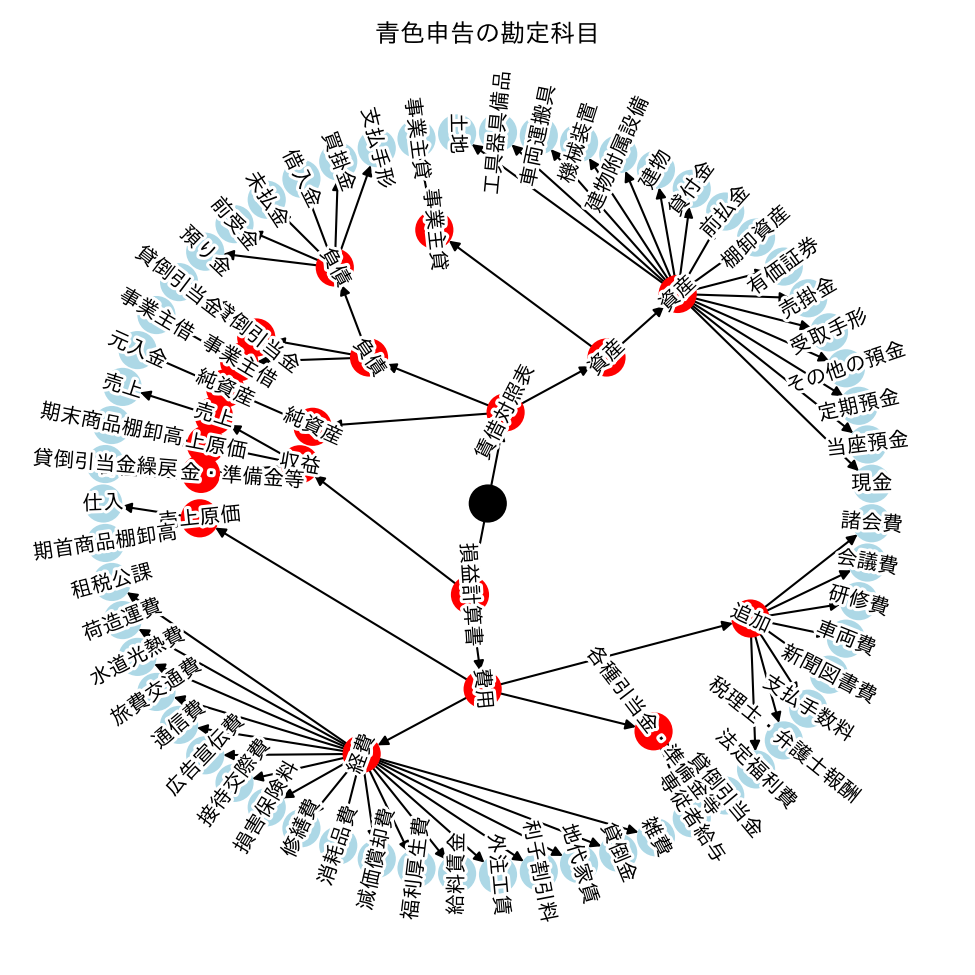
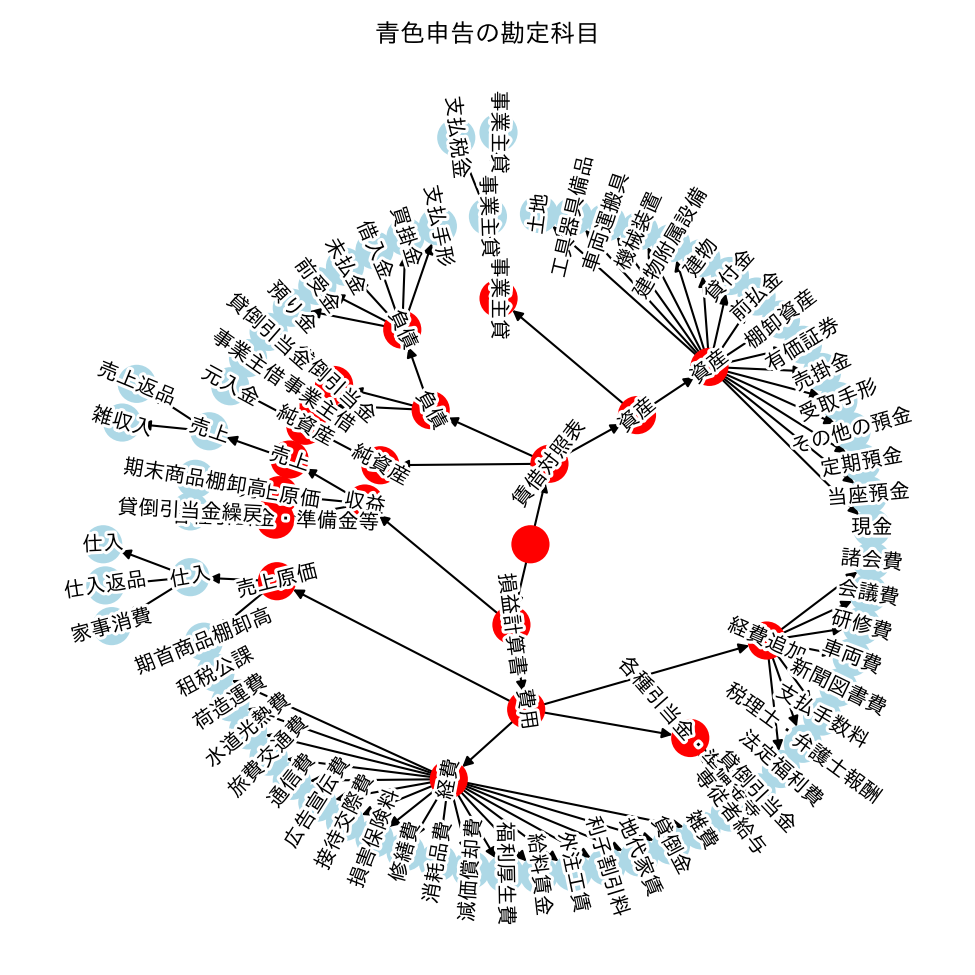
fix: import japanize_matplotlib (#17)
* feat: update account codes

* fix: import japanize_matplotlib

* chore: fix deps

diff --git a/src/account_codes_jp/cli.py b/src/account_codes_jp/cli.py
@@ -5,7 +5,6 @@ from pathlib import Path
 from typing import Annotated, Any, Literal
 
 import cyclopts
-import matplotlib
 import matplotlib.pyplot as plt
 import networkx as nx
 import numpy as np
@@ -109,23 +108,29 @@ def export(
     graphviz_args: str = "",
 ) -> None:
     """Export accounts."""
-    matplotlib.rc("font", family="serif", serif="IPAexGothic")
+    if path is None:
+        path = Path(type)
+    import japanize_matplotlib
+
+    japanize_matplotlib.japanize()
     if type == "edinet":
         plt.figure(figsize=(40, 40))
     else:
         plt.figure(figsize=(6.5, 6.5))
+
+    # remove margins
     plt.box(False)
     plt.subplots_adjust(left=0, right=1, top=1, bottom=0, wspace=0, hspace=0)
-    if path is None:
-        path = Path(type)
+
+    # get accounts
     if type == "edinet":
         G = get_edinet_accounts(industry)
     elif type == "blue-return":
         G = get_blue_return_accounts()
     else:
         raise ValueError(f"Unknown account type: {type}")
+
     print("Generating layout...")
-    # dot layout
     try:
         layout = nx.nx_agraph.graphviz_layout(
             G, prog=graphviz_layout, args=graphviz_args
@@ -133,6 +138,7 @@ def export(
     except Exception as e:
         warnings.warn(f"Failed to use graphviz layout: {e}", stacklevel=2)
         layout = nx.spring_layout(G)
+
     print("Drawing graph...")
     nx.draw_networkx_edges(G, layout, edge_color="white", width=3, arrowsize=1)
     nx.draw_networkx(

diff --git a/src/account_codes_jp/__init__.py b/src/account_codes_jp/__init__.py
@@ -1,10 +1,17 @@
 __version__ = "0.1.0"
 
 from ._blue_return import get_blue_return_accounts
-from ._common import Account, AccountSundry, AccountType, get_account_type_factory
+from ._common import (
+    SUNDRY,
+    Account,
+    AccountSundry,
+    AccountType,
+    get_account_type_factory,
+)
 from ._edinet import ETaxAccountProtocol, Industry, get_edinet_accounts
 
 __all__ = [
+    "SUNDRY",
     "Account",
     "AccountSundry",
     "AccountType",
